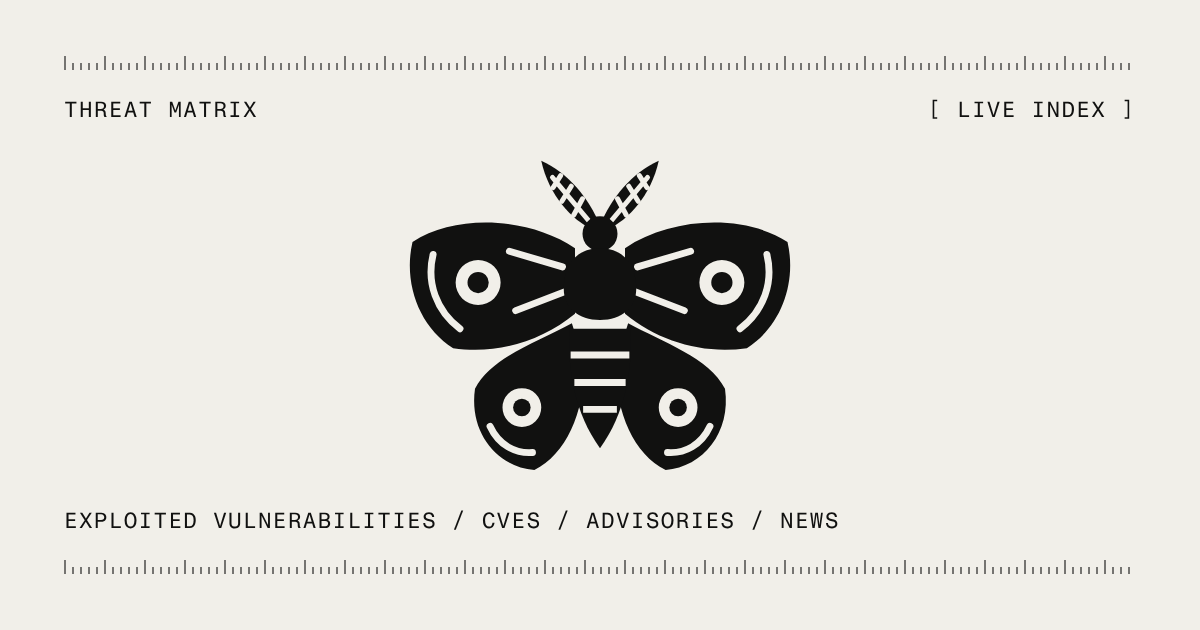
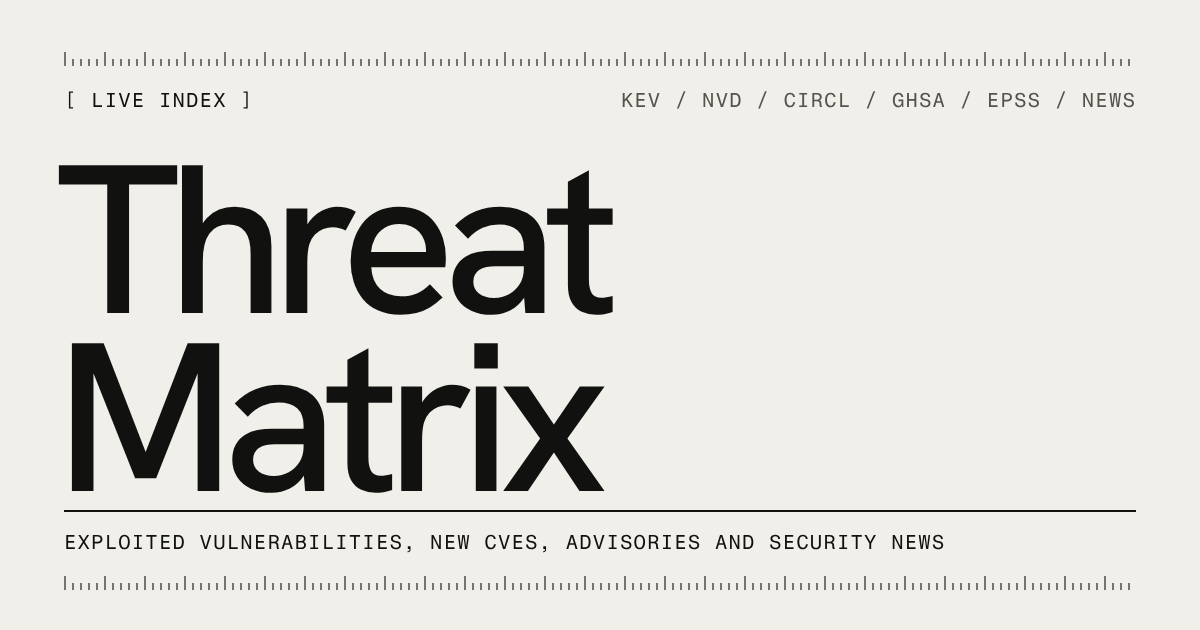
Preview card wording

diff --git a/web/index.html b/web/index.html
@@ -9,8 +9,16 @@
     <meta property="og:url" content="__SITE_URL__/">
     <meta property="og:title" content="Threat Matrix">
     <meta property="og:description" content="Exploited vulnerabilities, new CVEs, advisories and security news in one index.">
-    <meta property="og:image" content="__SITE_URL__/og.png">
+    <meta property="og:site_name" content="Threat Matrix">
+    <meta property="og:image" content="__SITE_URL__/og.png?v=4">
+    <meta property="og:image:type" content="image/png">
+    <meta property="og:image:width" content="1200">
+    <meta property="og:image:height" content="630">
+    <meta property="og:image:alt" content="Threat Matrix in large type above the words exploited vulnerabilities, new CVEs, advisories and security news">
     <meta name="twitter:card" content="summary_large_image">
+    <meta name="twitter:title" content="Threat Matrix">
+    <meta name="twitter:description" content="Exploited vulnerabilities, new CVEs, advisories and security news in one index.">
+    <meta name="twitter:image" content="__SITE_URL__/og.png?v=4">
     <meta name="referrer" content="strict-origin-when-cross-origin">
     <link rel="icon" href="/favicon.ico?v=3" sizes="48x48">
     <link rel="icon" type="image/svg+xml" href="/favicon.svg?v=3">

diff --git a/web/src/lib/filter.ts b/web/src/lib/filter.ts
@@ -88,7 +88,7 @@ export function countActive(filters: Filters): number {
   return (filters.severity.length > 0 ? 1 : 0) + (filters.source ? 1 : 0) + (filters.range ? 1 : 0);
 }
 
-// url state filters live in the query string so views can be bookmarked and shared
+// url state filters are kept in the query string so views can be bookmarked and shared
 
 export function filtersFromUrl(search: string): Filters {
   const params = new URLSearchParams(search);

diff --git a/README.md b/README.md
@@ -2,7 +2,7 @@
 
 # Threat-Matrix
 
-**Live Deployment:** [Threat-Matrix](https://threat-matrix.pages.dev/)
+**Deployment:** [Threat-Matrix](https://threat-matrix.pages.dev/)
 
 Threat-Matrix is a serverless threat-intelligence feed. It gathers exploited vulnerabilities, new CVEs,
 advisories, ransomware activity and security news into one searchable page. Signed-in users can follow
